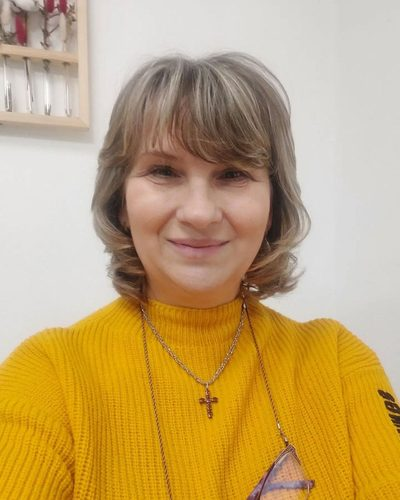
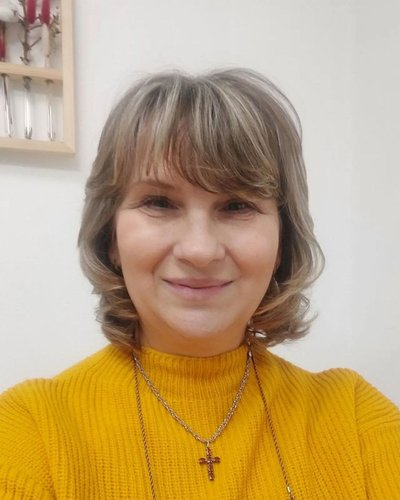
feat: дипломы П-1…П-6, портрет без очков (6bbf7f8)

diff --git a/index.html b/index.html
@@ -307,10 +307,8 @@
           </div>
         </div>
 
-        <!-- Дипломы и свидетельства. Фото офиса не будет — только документы.
-             TODO ЗАКАЗЧИК: когда придут сканы — положить в assets/img/ и заменить
-             <figcaption> на <img src="assets/img/diplom-1.jpg" alt="Диплом …" loading="lazy">.
-             Лишние слоты удалить, если документов меньше трёх. -->
+        <!-- Дипломы и свидетельства (сканы от заказчицы 2026-09-15). Фото офиса не будет.
+             Клик по скану открывает его целиком в новой вкладке. -->
         <div class="docs">
           <div class="docs-head">
             <p class="mono list-head">КВАЛИФИКАЦИЯ — ПРИЛОЖЕНИЯ К ЛИСТУ</p>
@@ -318,16 +316,28 @@
           </div>
           <ul class="photo-strip">
             <li>
-              <figure class="photo-slot"><figcaption class="mono">[ДИПЛОМ]<br>СКАН ОЖИДАЕТСЯ</figcaption></figure>
-              <p class="mono photo-cap"><span class="num accent">П-1</span> ОБРАЗОВАНИЕ</p>
+              <figure class="photo-slot"><a href="assets/img/diplom-1.jpg" target="_blank" rel="noopener"><img src="assets/img/diplom-1.jpg" width="1151" height="825" alt="Диплом о высшем образовании: квалификация «экономист», Ростовский государственный университет, 2005" loading="lazy" decoding="async"></a></figure>
+              <p class="mono photo-cap"><span class="num accent">П-1</span> ВЫСШЕЕ · ЭКОНОМИСТ</p>
             </li>
             <li>
-              <figure class="photo-slot"><figcaption class="mono">[СВИДЕТЕЛЬСТВО<br>/ АТТЕСТАТ]<br>СКАН ОЖИДАЕТСЯ</figcaption></figure>
-              <p class="mono photo-cap"><span class="num accent">П-2</span> КВАЛИФИКАЦИЯ</p>
+              <figure class="photo-slot"><a href="assets/img/diplom-2.jpg" target="_blank" rel="noopener"><img src="assets/img/diplom-2.jpg" width="1164" height="426" alt="Диплом кандидата экономических наук, 2010" loading="lazy" decoding="async"></a></figure>
+              <p class="mono photo-cap"><span class="num accent">П-2</span> КАНДИДАТ ЭКОНОМ. НАУК</p>
             </li>
             <li>
-              <figure class="photo-slot"><figcaption class="mono">[ПОВЫШЕНИЕ<br>КВАЛИФИКАЦИИ]<br>СКАН ОЖИДАЕТСЯ</figcaption></figure>
-              <p class="mono photo-cap"><span class="num accent">П-3</span> ОБУЧЕНИЕ</p>
+              <figure class="photo-slot"><a href="assets/img/diplom-3.jpg" target="_blank" rel="noopener"><img src="assets/img/diplom-3.jpg" width="1200" height="833" alt="Диплом о профессиональной переподготовке: налоговый консультант, 2025" loading="lazy" decoding="async"></a></figure>
+              <p class="mono photo-cap"><span class="num accent">П-3</span> НАЛОГОВЫЙ КОНСУЛЬТАНТ</p>
+            </li>
+            <li>
+              <figure class="photo-slot"><a href="assets/img/diplom-4.jpg" target="_blank" rel="noopener"><img src="assets/img/diplom-4.jpg" width="1200" height="829" alt="Диплом о профессиональной переподготовке: внутренний аудитор, 2025" loading="lazy" decoding="async"></a></figure>
+              <p class="mono photo-cap"><span class="num accent">П-4</span> ВНУТРЕННИЙ АУДИТОР</p>
+            </li>
+            <li>
+              <figure class="photo-slot"><a href="assets/img/diplom-5.jpg" target="_blank" rel="noopener"><img src="assets/img/diplom-5.jpg" width="1200" height="831" alt="Диплом о профессиональной переподготовке: экономист-аналитик, 2025" loading="lazy" decoding="async"></a></figure>
+              <p class="mono photo-cap"><span class="num accent">П-5</span> ЭКОНОМИСТ-АНАЛИТИК</p>
+            </li>
+            <li>
+              <figure class="photo-slot"><a href="assets/img/diplom-6.jpg" target="_blank" rel="noopener"><img src="assets/img/diplom-6.jpg" width="1200" height="829" alt="Удостоверение о повышении квалификации: аналитик данных, 2025" loading="lazy" decoding="async"></a></figure>
+              <p class="mono photo-cap"><span class="num accent">П-6</span> ПОВЫШЕНИЕ КВАЛИФИКАЦИИ</p>
             </li>
           </ul>
         </div>

diff --git a/css/styles.css b/css/styles.css
@@ -245,9 +245,11 @@ a { color: inherit; text-decoration: none; }
    ориентация диплома встаёт одинаково, ничего не обрезается. */
 .docs { margin-top: 3rem; }
 .docs-head { display: flex; flex-wrap: wrap; gap: .5rem 1.5rem; justify-content: space-between; padding-bottom: .8rem; border-bottom: 1px solid var(--line); }
-.photo-strip { display: grid; gap: 1.25rem; margin-top: 1.25rem; }
-.photo-strip .photo-slot { aspect-ratio: 4 / 3; }
-.photo-strip .photo-slot img { object-fit: contain; padding: .75rem; }
+.photo-strip { display: grid; grid-template-columns: repeat(2, minmax(0, 1fr)); gap: 1.25rem .75rem; margin-top: 1.25rem; }
+.photo-strip .photo-slot { aspect-ratio: 4 / 3; transition: border-color .15s; }
+.photo-strip .photo-slot:hover { border-color: var(--accent); }
+.photo-slot a { display: block; width: 100%; height: 100%; }
+.photo-strip .photo-slot img { object-fit: contain; padding: .5rem; }
 .photo-cap { display: flex; gap: .75rem; margin-top: .6rem; font-size: .66rem; letter-spacing: .08em; color: var(--faint); }
 
 /* ---------------- Лист 7: вопросы ---------------- */

diff --git a/assets/README.md b/assets/README.md
@@ -14,16 +14,21 @@
 
 | Файл | Где | Статус |
 |---|---|---|
-| `img/auditor.jpg` (720×900) + `img/auditor-400.jpg` | hero, портрет 4:5 | ✅ есть (селфи от 2026-09-10, кадр 01) |
-| `img/diplom-*.jpg` | «Почему нам доверяют» → приложения П-1…П-3 | ⏳ ждём сканы от заказчицы |
+| `img/auditor.jpg` (720×900) + `img/auditor-400.jpg` | hero, портрет 4:5 | ✅ селфи от 2026-09-10, кадр 01; перекадрирован выше очков на шнурке |
+| `img/diplom-1…6.jpg` | «Почему нам доверяют» → приложения П-1…П-6 | ✅ сканы от 2026-09-15 |
 
-Фото офиса/команды **не будет** (сказала заказчица) — слоты под них убраны.
+Фото офиса/команды и других фото **не будет** (сказала заказчица).
 
-## Как подключить дипломы, когда придут
+Документы: П-1 диплом РГУ (экономист, 2005) · П-2 диплом к.э.н. (2010) ·
+П-3…П-5 переподготовка АНО «НИИДПО» 2025 (налоговый консультант, внутренний аудитор,
+экономист-аналитик) · П-6 удостоверение о ПК (аналитик данных, 2025).
+Исходники — в `/дипломы` в корне репо. Приложение к диплому РГУ не публикуем:
+там дата рождения. Нострификацию (Черногория) на сайт не ставили.
 
-1. Сжать: длинная сторона ~1200 px, JPEG q≈82 (в `backend/.venv` есть Pillow).
-2. Положить в `img/diplom-1.jpg`, `img/diplom-2.jpg`, …
-3. В `index.html` (блок `.docs`) заменить `<figcaption>` внутри `.photo-slot` на
-   `<img src="assets/img/diplom-1.jpg" alt="Диплом о …" loading="lazy">`.
-   Скан встаёт целиком (`object-fit: contain`), любая ориентация подходит.
-4. Лишние слоты удалить, если документов меньше трёх.
+## Как добавить документ
+
+1. Повернуть в читаемую ориентацию, обрезать поля скана, длинная сторона 1200 px,
+   JPEG q≈82 (в `backend/.venv` есть Pillow).
+2. Положить в `img/diplom-N.jpg`, в `index.html` (блок `.docs`) скопировать `<li>`
+   и поправить `src`/`href`, `width`/`height`, `alt` и подпись П-N.
+   Скан встаёт целиком (`object-fit: contain`), клик открывает оригинал.
